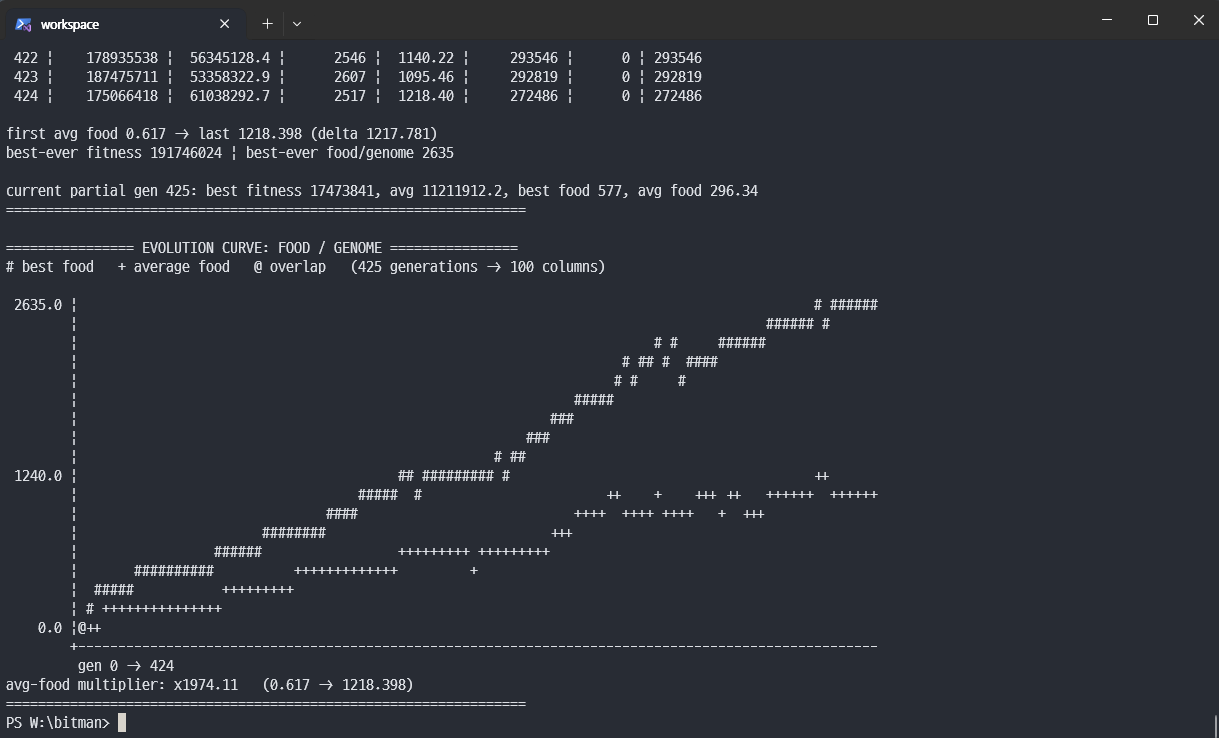
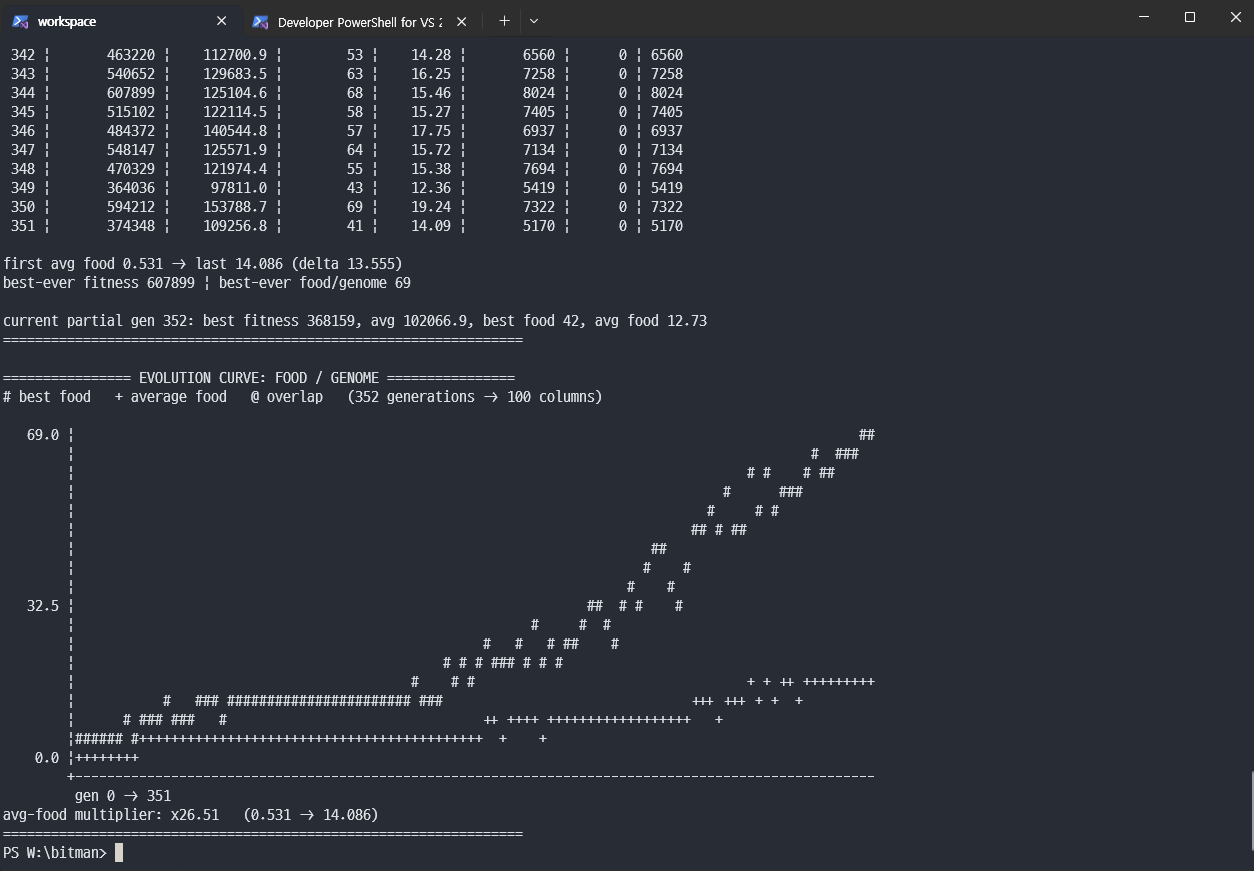
nerf input update screenshots

diff --git a/README.md b/README.md
@@ -1,4 +1,5 @@
 # bitman
+> A ternary neural network (-1, 0, 1) evolved with a genetic algorithm to play Snake.
 
 The network uses ternary weights (`-1, 0, 1`) inspired by [BitLinear](https://github.com/schneiderkamplab/bitlinear).
 
